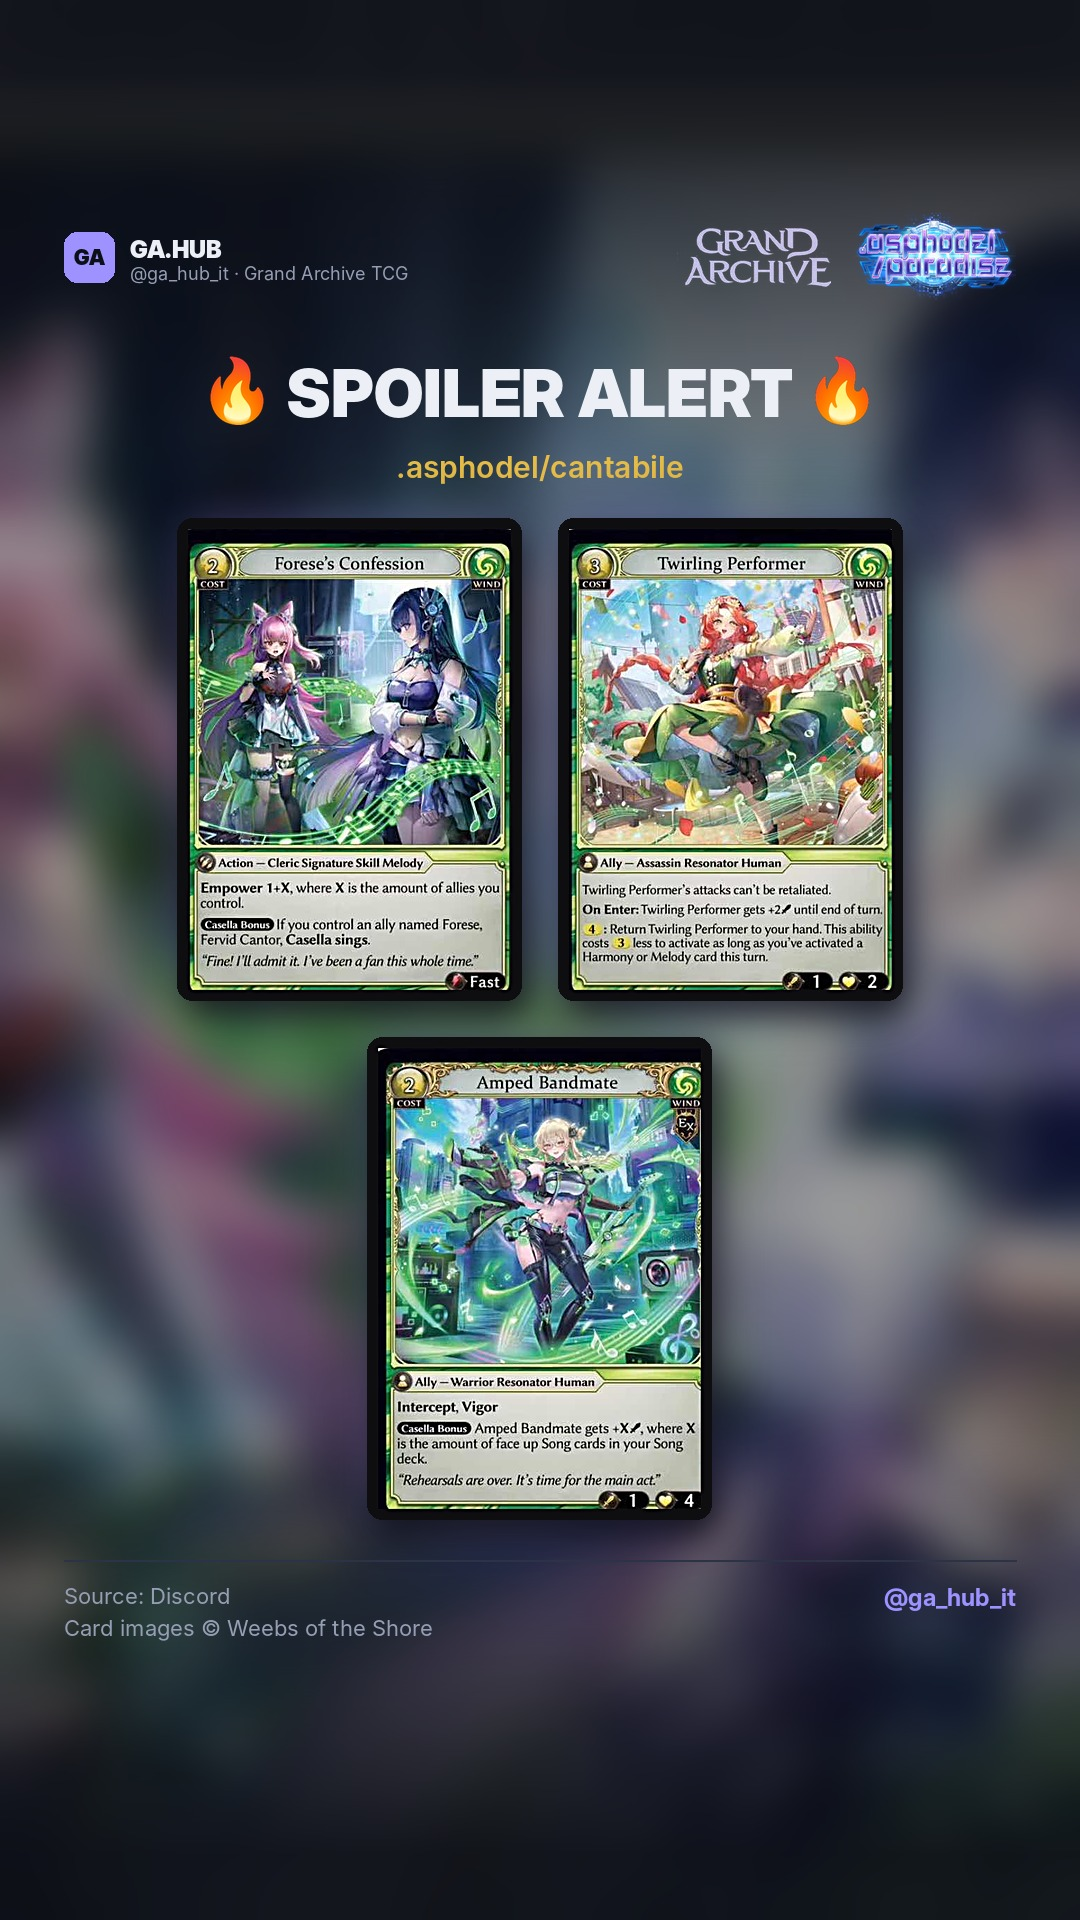
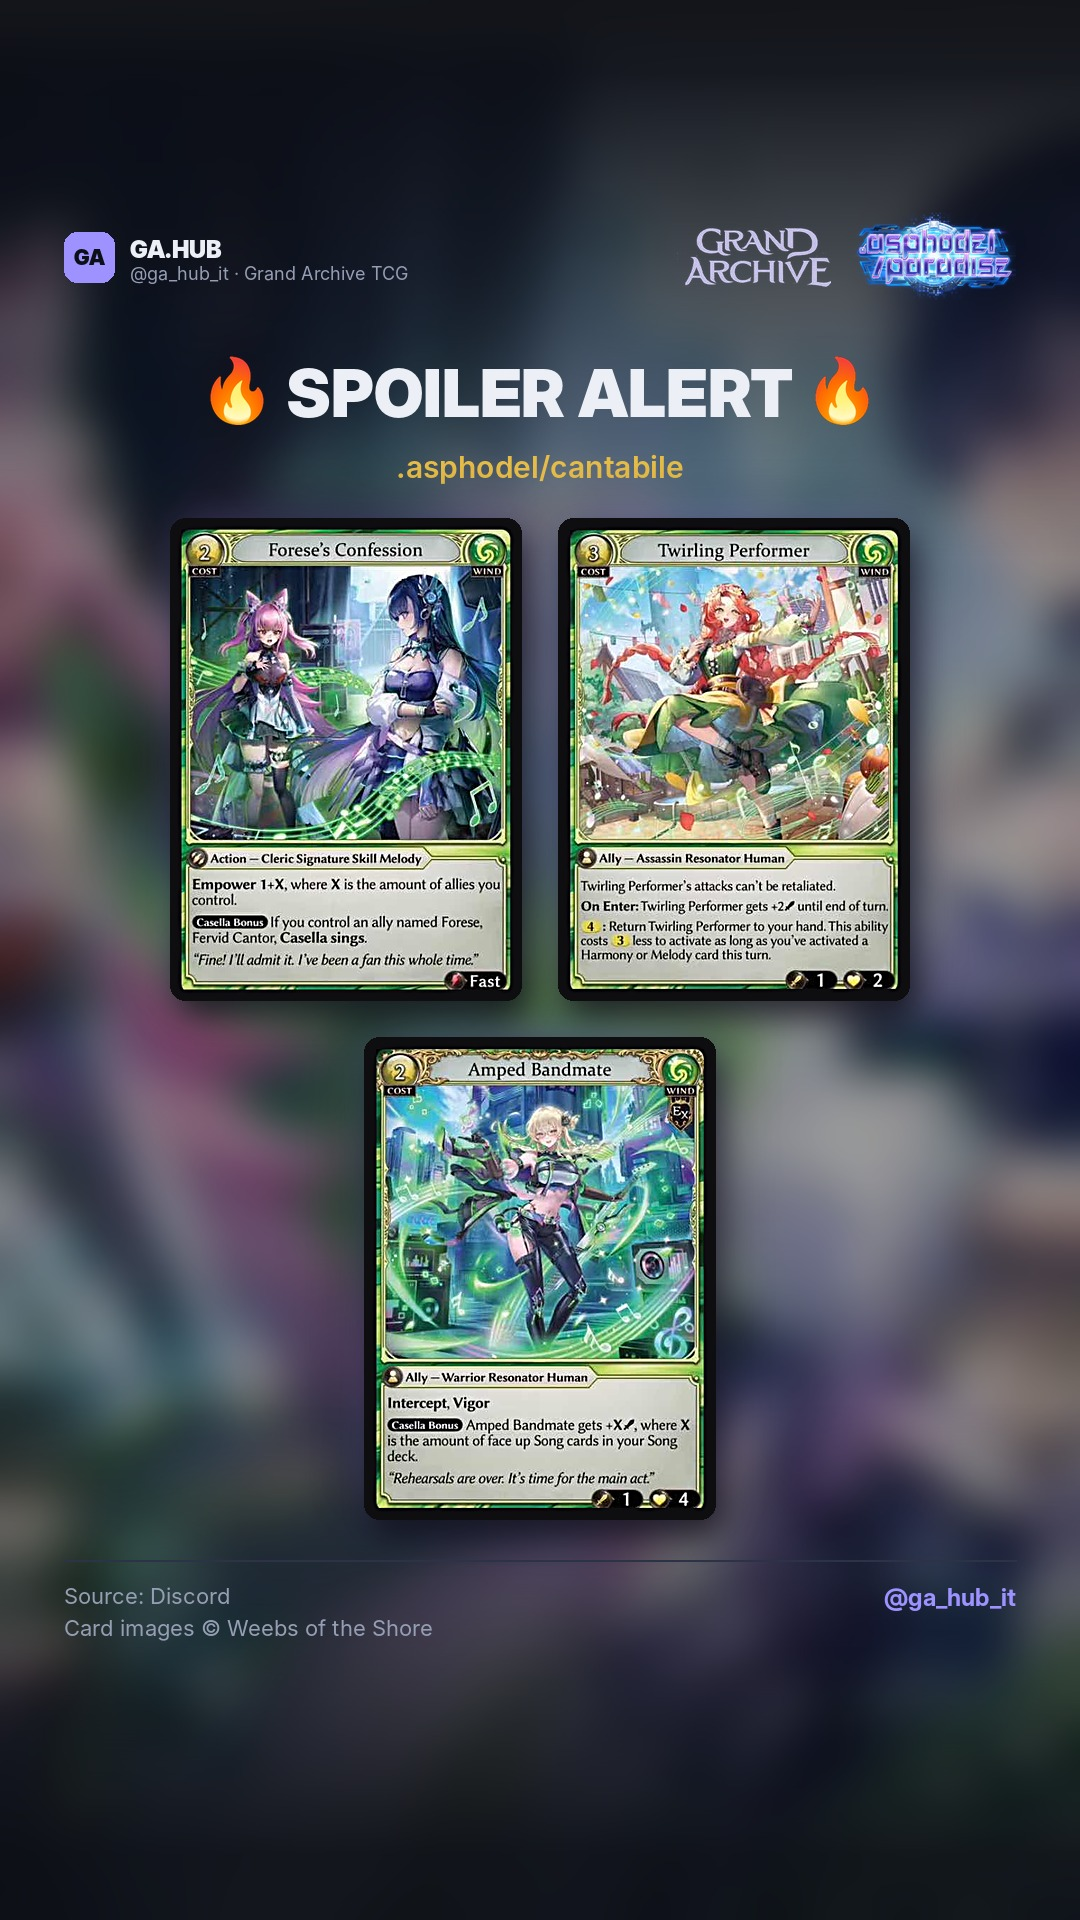
News: bordo nero uniforme (ritaglio stretto sulla cornice) per le carte Wind
Claude-Session: https://claude.ai/code/session_01XvQkgTGGeyxL7MAgCNKowZ

diff --git a/tools/news.py b/tools/news.py
@@ -317,6 +317,17 @@ def _frame(P, W, H, src, kicker, source, area_top, area_bot):
     return im
 
 
+def _tight(card, thr=70, frac=0.6):
+    """Toglie bordi scuri e sfondo attorno alla carta: tiene righe/colonne in cui la maggior parte dei pixel non è scura."""
+    import numpy as np
+    m = np.asarray(card.convert("RGB")).max(axis=2) > thr
+    cols = np.where(m.mean(axis=0) > frac)[0]
+    rows = np.where(m.mean(axis=1) > frac)[0]
+    if len(cols) < card.width * 0.5 or len(rows) < card.height * 0.5:
+        return card
+    return card.crop((int(cols[0]), int(rows[0]), int(cols[-1]) + 1, int(rows[-1]) + 1))
+
+
 def _cards(P, W, H, src, boxes, label, emo, subtitle, source, pad=0.0):
     """Carte grandi e leggibili (1 al centro; 2 affiancate; 3-4 su due righe), artwork della prima carta
     sfocato dietro, titolo con emoji (es. 🔥 SPOILER ALERT 🔥, 🚫 BAN LIST 🚫)."""
@@ -324,8 +335,8 @@ def _cards(P, W, H, src, boxes, label, emo, subtitle, source, pad=0.0):
     story = H > 1500
     from PIL import ImageOps
     cards = [src.crop(b) for b in boxes]
-    if pad:  # bordo nero aggiunto: per carte tagliate dal bordo dell'immagine o testo vicino al bordo
-        cards = [ImageOps.expand(c, border=max(2, int(c.width * pad)), fill=(14, 14, 16)) for c in cards]
+    if pad:  # carta ritagliata stretta sulla cornice colorata + bordo nero uniforme su tutti i lati
+        cards = [ImageOps.expand(_tight(c), border=max(2, int(c.width * pad)), fill=(14, 14, 16)) for c in cards]
     cw, ch = cards[0].size
     art = cards[0].crop((int(cw * .06), int(ch * .09), int(cw * .94), int(ch * .58)))  # illustrazione della carta
     im = _cover(art, W, H, 22, 0.62)

diff --git a/CLAUDE.md b/CLAUDE.md
@@ -54,7 +54,7 @@ Passi della procedura:
 - Script: `tools/news.py scan --work DIR` (scarica e genera storie/post + `manifest.json`), `render` (rigenera dopo aver cambiato il `kicker`: News, Spoiler, Event, Ban list…), `done --last-id ID` (avanza `news/state.json` dopo la pubblicazione).
 - Grafica: intestazione con GA.HUB a sinistra e, in alto a destra, **logo Grand Archive** (`assets/ga-logo.png`) accanto al logo dell'espansione.
 - **Spoiler** (kicker "Spoiler"): la carta viene trovata in automatico nell'immagine (`find_card`) e mostrata **grande e leggibile**, con l'**artwork della carta sfocato** dietro e il titolo **🔥 SPOILER ALERT 🔥**. Il campo `subtitle` del manifest (inglese, es. ".asphodel/cantabile · December 11th, 2026") va sotto il titolo. Se la carta non viene trovata o il ritaglio è sbagliato: `card_boxes: {"N": [x0,y0,x1,y1]}` in frazioni dell'immagine, poi `render`.
-- **Ban List** (kicker "Ban List"): tutte le carte dell'immagine vengono trovate (`find_cards`) e mostrate grandi (2 per riga), con il titolo **🚫 BAN LIST 🚫** e il `subtitle` (es. "Seasonal Banlist · .asphodel/cantabile"). Per correggere: `card_boxes: {"N": [[x0,y0,x1,y1], ...]}` (vale anche per gli spoiler con più carte). Se una carta è tagliata dal bordo dell'immagine o il testo finisce negli angoli arrotondati, `card_pad: 0.035` aggiunge un bordo nero come quello delle carte vere. Controllare sempre che **nessuna carta sia tagliata** (l'utente lo nota).
+- **Ban List** (kicker "Ban List"): tutte le carte dell'immagine vengono trovate (`find_cards`) e mostrate grandi (2 per riga), con il titolo **🚫 BAN LIST 🚫** e il `subtitle` (es. "Seasonal Banlist · .asphodel/cantabile"). Per correggere: `card_boxes: {"N": [[x0,y0,x1,y1], ...]}` (vale anche per gli spoiler con più carte). Se una carta è tagliata dal bordo dell'immagine o il testo finisce negli angoli arrotondati, `card_pad: 0.035` ritaglia la carta stretta sulla sua cornice colorata e aggiunge un bordo nero uniforme su tutti i lati. Controllare sempre che **nessuna carta sia tagliata** (l'utente lo nota).
 - Le altre news usano l'immagine intera su sfondo sfocato con l'etichetta del kicker.
 - **Post da un articolo ufficiale** (l'utente manda il link di www.gatcg.com, host consentito): leggere l'articolo, riassumerlo senza inventare. Carosello: copertina con il layout news (`news.py`, `post: true`) + slide di spiegazione con `tools/rulings.py` (spec in `news/articles/<data>-<slug>.json`, testi in inglese, `footer` "Source: gatcg.com · …", `page_offset`/`page_total` per la numerazione). Didascalia in italiano.
 - File pubblicati in `posts/news/AAAA-MM-GG/`.
